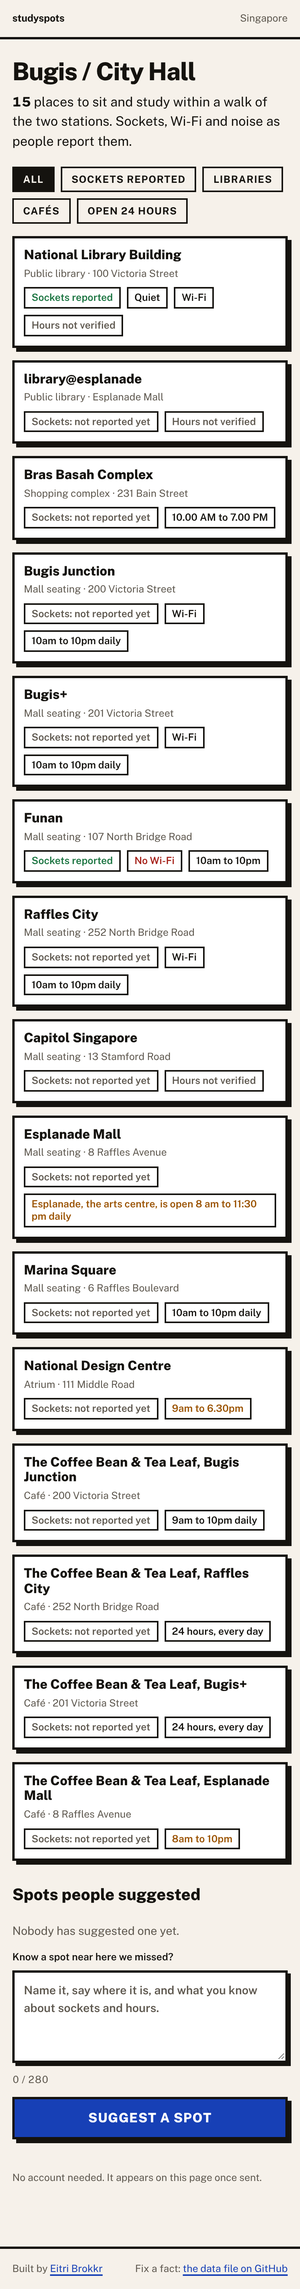
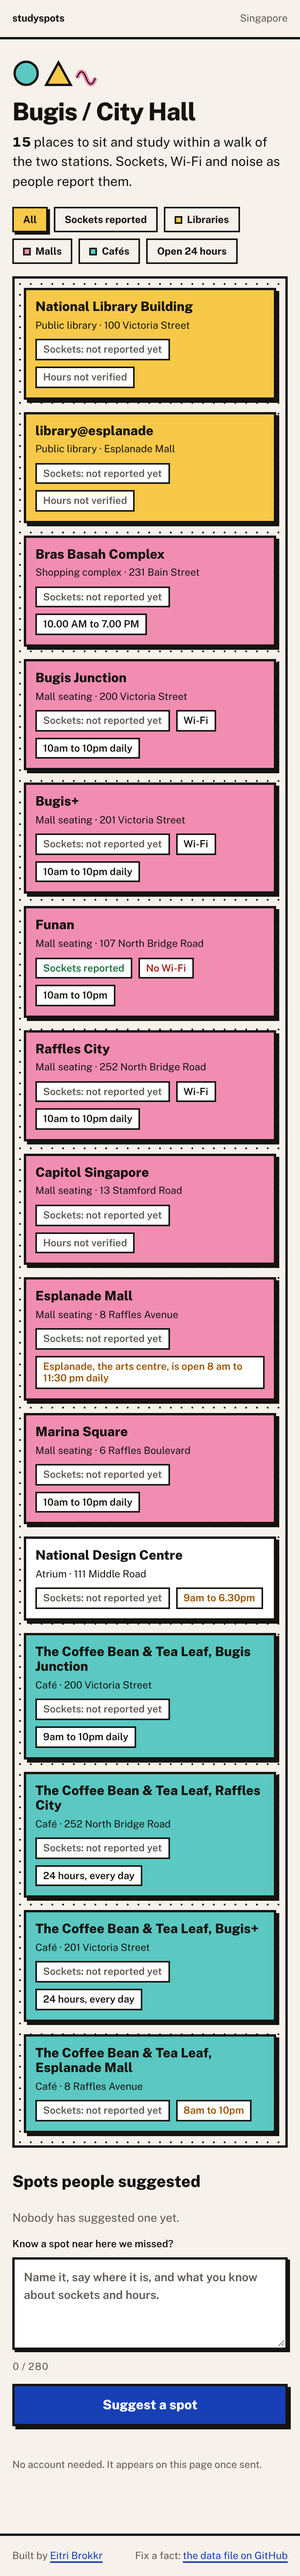
Direction: Memphis colours, square corners
Joshua, 31 Oct: "i personally like the memphis you showed because of the
colours. i don't like the morphisms. i'm bored of the rounded pills".

Tokens gain yellow, pink and teal, one fill per kind of place (libraries,
malls, cafés; white otherwise), each declared with ink as its only text
colour since muted and blue were computed to fail on them; the token gate
verifies 21 pairs. The style layer is square throughout (chips, buttons,
cards), sentence-case labels, 4px hard shadows, a dotted tray behind the
list, Memphis shapes above the front-page and area heroes, and a filled
band on each spot page. The area page gains a Malls filter with colour
swatches. verify.mjs now computes the contrast of every visible text node
against its real background on every page walked; all pass.

Claude-Session: https://claude.ai/code/session_01AYTZguf87hw8GN5ra2oqPY

diff --git a/src/styles/site.css b/src/styles/site.css
@@ -38,51 +38,64 @@ main.wrap { flex: 1; padding-bottom: var(--space-12); }
 .hero .lede { font-size: var(--text-17); max-width: var(--measure); }
 .hero .kind { color: var(--color-muted); font-size: var(--text-15); }
 .hero .kind .sep { padding: 0 0.35em; }
+.hero.has-fill { padding: var(--space-4); margin: var(--space-4) 0 var(--space-2); border: var(--border-w) solid var(--color-ink); box-shadow: var(--shadow-hard); }
+.hero.has-fill .kind { color: var(--color-ink); }
 
 /* filters (JS only) */
 .filters { display: flex; gap: var(--space-2); flex-wrap: wrap; padding: var(--space-2) 0 var(--space-4); }
 .chip {
   font: inherit; font-size: var(--text-13); font-weight: 700; line-height: 1; text-transform: var(--label-case); letter-spacing: var(--label-tracking);
   padding: var(--space-2) var(--space-3); background: var(--color-paper); color: var(--color-ink);
-  border: var(--border-w-thin) solid var(--color-ink); border-radius: var(--radius-pill); cursor: pointer;
+  border: var(--border-w-thin) solid var(--color-ink); border-radius: var(--radius-chip); cursor: pointer;
 }
-.chip[aria-pressed="true"] { background: var(--color-ink); color: var(--color-paper); }
+.chip[aria-pressed="true"] { background: var(--color-yellow); color: var(--color-ink); box-shadow: var(--shadow-hard-sm); }
+.sw { display: inline-block; width: 10px; height: 10px; border: var(--border-w-thin) solid var(--color-ink); margin-right: 6px; vertical-align: -1px; }
 .filters[hidden] { display: none; }
 
 /* cards */
-.list { display: grid; gap: var(--space-4); }
+.list { display: grid; gap: var(--space-4); padding: var(--space-3) var(--space-3) var(--space-4); background-image: var(--dots); background-size: var(--dots-size); border: var(--border-w) solid var(--color-ink); }
+.shapes { display: block; width: 112px; height: 40px; margin-bottom: var(--space-3); }
+.shapes .s-teal { fill: var(--color-teal); stroke: var(--color-ink); stroke-width: 3; }
+.shapes .s-yellow { fill: var(--color-yellow); stroke: var(--color-ink); stroke-width: 3; }
+.shapes .s-pink { fill: none; stroke: var(--color-pink); stroke-width: 6; }
+.shapes .s-line { fill: none; stroke: var(--color-ink); stroke-width: 1.5; }
 .card {
   display: block; color: inherit; text-decoration: none;
   background: var(--card-bg); border: var(--border-w) solid var(--color-ink); border-radius: var(--radius);
   box-shadow: var(--shadow-hard); padding: var(--space-3) var(--space-3) var(--space-3);
   transition: transform var(--dur) var(--ease), box-shadow var(--dur) var(--ease);
 }
-.card:hover { transform: translate(-2px, -2px); box-shadow: 7px 7px 0 var(--color-ink); }
-.card:active { transform: translate(2px, 2px); box-shadow: 3px 3px 0 var(--color-ink); }
+.card:hover { transform: translate(-2px, -2px); box-shadow: var(--shadow-hover); }
+.card:active { transform: translate(3px, 3px); box-shadow: var(--shadow-press); }
 .card .name { display: block; font-size: var(--text-17); font-weight: 800; line-height: var(--leading-tight); }
-.card .kind { display: block; font-size: var(--text-13); color: var(--color-muted); margin: var(--space-1) 0 var(--space-2); }
+.card .kind { display: block; font-size: var(--text-13); color: var(--color-ink); margin: var(--space-1) 0 var(--space-2); }
 .facts { display: flex; gap: var(--space-2) var(--space-2); flex-wrap: wrap; }
 .fact {
   display: inline-block; font-size: var(--text-13); font-weight: 600; line-height: 1.2;
-  padding: var(--space-1) var(--space-2); border: var(--border-w-thin) solid var(--color-ink); border-radius: var(--radius); color: var(--color-ink);
+  padding: var(--space-1) var(--space-2); border: var(--border-w-thin) solid var(--color-ink); border-radius: var(--radius-chip); color: var(--color-ink); background: var(--color-white);
 }
 .fact.st-reported { color: var(--color-ok); }
 .fact.st-unknown { color: var(--color-unknown); }
 .fact.st-partial { color: var(--color-warn); }
 .fact.st-no { color: var(--color-bad); }
 .list [hidden] { display: none; }
+/* Memphis fills by kind: ink text only on these (tokens.css) */
+.fill-library { background-color: var(--fill-library); }
+.fill-mall { background-color: var(--fill-mall); }
+.fill-cafe { background-color: var(--fill-cafe); }
+.fill-other { background-color: var(--fill-other); }
 .empty-filter { color: var(--color-muted); padding: var(--space-4) 0; }
 
 /* actions */
 .btn {
-  display: block; width: 100%; font: inherit; font-size: var(--text-17); font-weight: 800; text-transform: var(--label-case); letter-spacing: 0.04em;
+  display: block; width: 100%; font: inherit; font-size: var(--text-17); font-weight: 800; text-transform: var(--label-case); letter-spacing: var(--label-tracking);
   padding: var(--space-3) var(--space-4); text-align: center; text-decoration: none; cursor: pointer;
   background: var(--color-blue); color: var(--color-white);
   border: var(--border-w) solid var(--color-ink); border-radius: var(--radius); box-shadow: var(--shadow-hard);
   transition: transform var(--dur) var(--ease), box-shadow var(--dur) var(--ease);
 }
-.btn:hover { transform: translate(-2px, -2px); box-shadow: 7px 7px 0 var(--color-ink); }
-.btn:active { transform: translate(3px, 3px); box-shadow: 2px 2px 0 var(--color-ink); }
+.btn:hover { transform: translate(-2px, -2px); box-shadow: var(--shadow-hover); }
+.btn:active { transform: translate(3px, 3px); box-shadow: var(--shadow-press); }
 .btn[disabled] { cursor: progress; transform: none; }
 .actions { padding: var(--space-6) 0 var(--space-2); }
 
@@ -100,7 +113,7 @@ main.wrap { flex: 1; padding-bottom: var(--space-12); }
 .factlist dd { display: grid; gap: var(--space-1); }
 .factlist .val { font-weight: 600; }
 .factlist .val.is-unknown { color: var(--color-muted); font-weight: 400; }
-.status { display: inline-block; font-size: var(--text-13); font-weight: 700; line-height: 1.2; padding: 2px var(--space-2); border: var(--border-w-thin) solid var(--color-ink); border-radius: var(--radius); justify-self: start; }
+.status { display: inline-block; font-size: var(--text-13); font-weight: 700; line-height: 1.2; padding: 2px var(--space-2); border: var(--border-w-thin) solid var(--color-ink); border-radius: var(--radius-chip); background: var(--color-white); justify-self: start; }
 .status.st-reported { color: var(--color-ok); }
 .status.st-unknown { color: var(--color-unknown); }
 .status.st-partial { color: var(--color-warn); }

diff --git a/src/styles/tokens.css b/src/styles/tokens.css
@@ -1,6 +1,7 @@
-/* studyspots — design tokens. Locked 2026-10-30. Gate: `npm run check` (scripts/check-tokens.mjs).
+/* studyspots — design tokens. Locked 2026-10-30, direction ruled 2026-10-31. Gate: `npm run check`.
    Every --color-* token below has a stated use in design-tokens.manifest.json; nothing exists without one.
-   The STYLE LAYER at the bottom is the only block Joshua's direction pick changes. */
+   Direction (Joshua, 2026-10-31): "i personally like the memphis you showed because of the colours.
+   i don't like the morphisms. i'm bored of the rounded pills" — Memphis palette, square corners. */
 :root {
   color-scheme: light;
 
@@ -8,12 +9,19 @@
   --color-paper:   #F6F1EA; /* the ground of every page */
   --color-ink:     #15130F; /* all type and every number */
   --color-blue:    #1740B6; /* actions only: buttons, links. Never decoration, never a status */
-  --color-white:   #FFFFFF; /* the card ground in the Neobrutalist baseline; form fields */
-  --color-muted:   #5E584F; /* secondary text: kind lines, notes, footer */
-  --color-ok:      #19733F; /* status: reported by a person */
-  --color-warn:    #9A5200; /* status: partly known, hours vary, closes soon */
+  --color-white:   #FFFFFF; /* panels, chips, form fields; the fill for kinds without a colour */
+  --color-muted:   #5E584F; /* secondary text on paper or white ONLY */
+  --color-ok:      #19733F; /* status: reported */
+  --color-warn:    #9A5200; /* status: partly known */
   --color-unknown: #5E584F; /* status: not reported yet (deliberately the same value as muted) */
-  --color-bad:     #A6221A; /* status: closed, wrong, removed; form errors */
+  --color-bad:     #A6221A; /* status: closed, wrong, no; form errors */
+
+  /* Memphis fills — one per kind of place. INK TEXT ONLY on these (computed 2026-10-30):
+     muted on yellow 4.49, on pink 3.09, on teal 3.51; blue on pink 3.77, on teal 4.29 — all fail.
+     Status colours sit on a white chip, never on a fill. */
+  --color-yellow:  #F7C948; /* libraries; the active filter */
+  --color-pink:    #F28DB2; /* malls and shopping complexes */
+  --color-teal:    #5BC8C2; /* cafés */
 
   /* type — one face, a real scale (ratio ~1.25) */
   --font-sans: "Public Sans", system-ui, -apple-system, "Segoe UI", Roboto, sans-serif;
@@ -34,20 +42,28 @@
   --space-6: 24px;
   --space-8: 32px;
   --space-12: 48px;
-  --measure: 36rem; /* max line length for prose */
+  --measure: 36rem;
 
   /* motion */
   --ease: cubic-bezier(.2,.7,.2,1);
   --dur: 140ms;
 
-  /* STYLE LAYER — Neobrutalist baseline (working assumption until the pick lands) */
+  /* STYLE LAYER — Memphis colours, square corners */
   --radius: 0;
-  --radius-pill: 0;
+  --radius-chip: 0;
   --border-w: 3px;
   --border-w-thin: 2px;
   --card-bg: var(--color-white);
-  --shadow-hard: 5px 5px 0 var(--color-ink);
-  --shadow-hard-sm: 4px 4px 0 var(--color-ink);
-  --label-case: uppercase;
-  --label-tracking: 0.06em;
+  --shadow-hard: 4px 4px 0 var(--color-ink);
+  --shadow-hard-sm: 3px 3px 0 var(--color-ink);
+  --shadow-hover: 6px 6px 0 var(--color-ink);
+  --shadow-press: 1px 1px 0 var(--color-ink);
+  --label-case: none;
+  --label-tracking: 0;
+  --fill-library: var(--color-yellow);
+  --fill-mall: var(--color-pink);
+  --fill-cafe: var(--color-teal);
+  --fill-other: var(--color-white);
+  --dots: radial-gradient(var(--color-ink) 1.2px, transparent 1.3px);
+  --dots-size: 14px 14px;
 }
